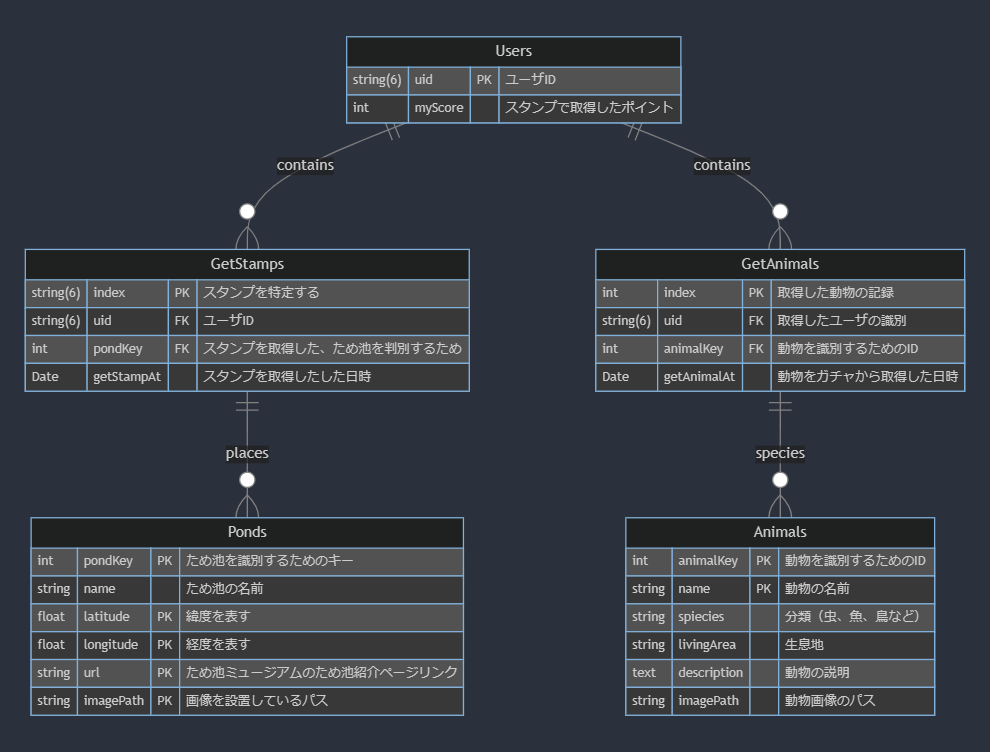
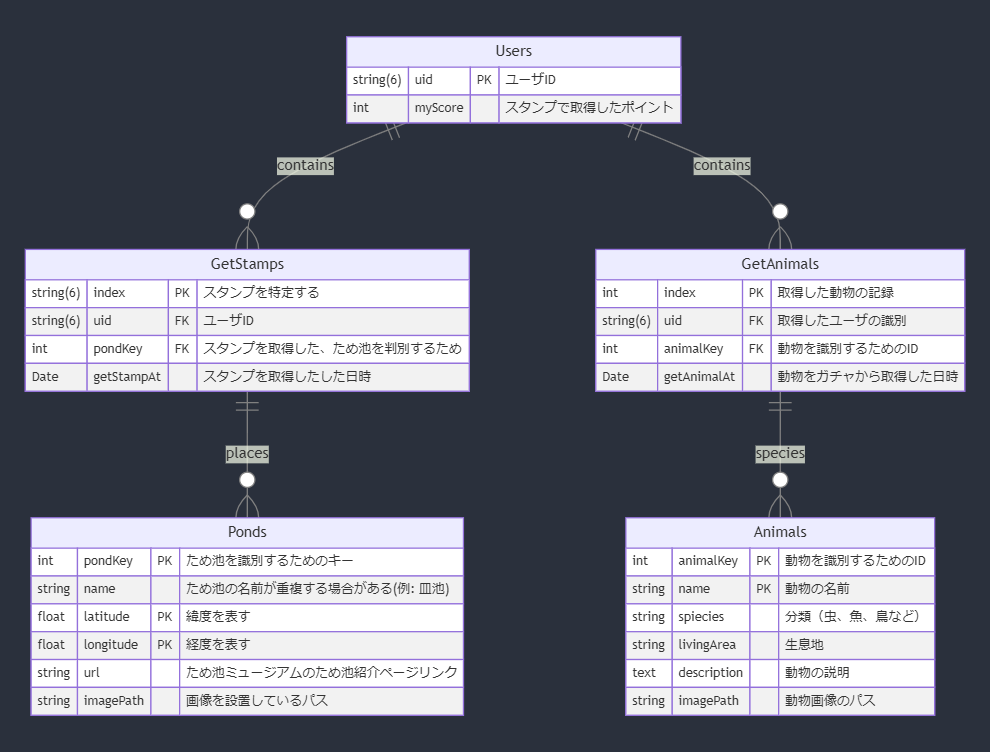
🐛fix: #14 PKの削除、`Ponds`クラスの`name`について説明を追加

diff --git a/docs/er-diagram.md b/docs/er-diagram.md
@@ -28,11 +28,11 @@ erDiagram
     %% あくまでコードロジックに反映させるためのモデル
     Ponds {
         int pondKey PK "ため池を識別するためのキー"
-        string name "ため池の名前"
+        string name "ため池の名前が重複する場合がある(e.g. 皿池)"
         float latitude PK "緯度を表す"
         float longitude PK "経度を表す"
-        string url PK "ため池ミュージアムのため池紹介ページリンク"
-        string imagePath PK "画像を設置しているパス"
+        string url "ため池ミュージアムのため池紹介ページリンク"
+        string imagePath "画像を設置しているパス"
     }
 
     GetAnimals {
